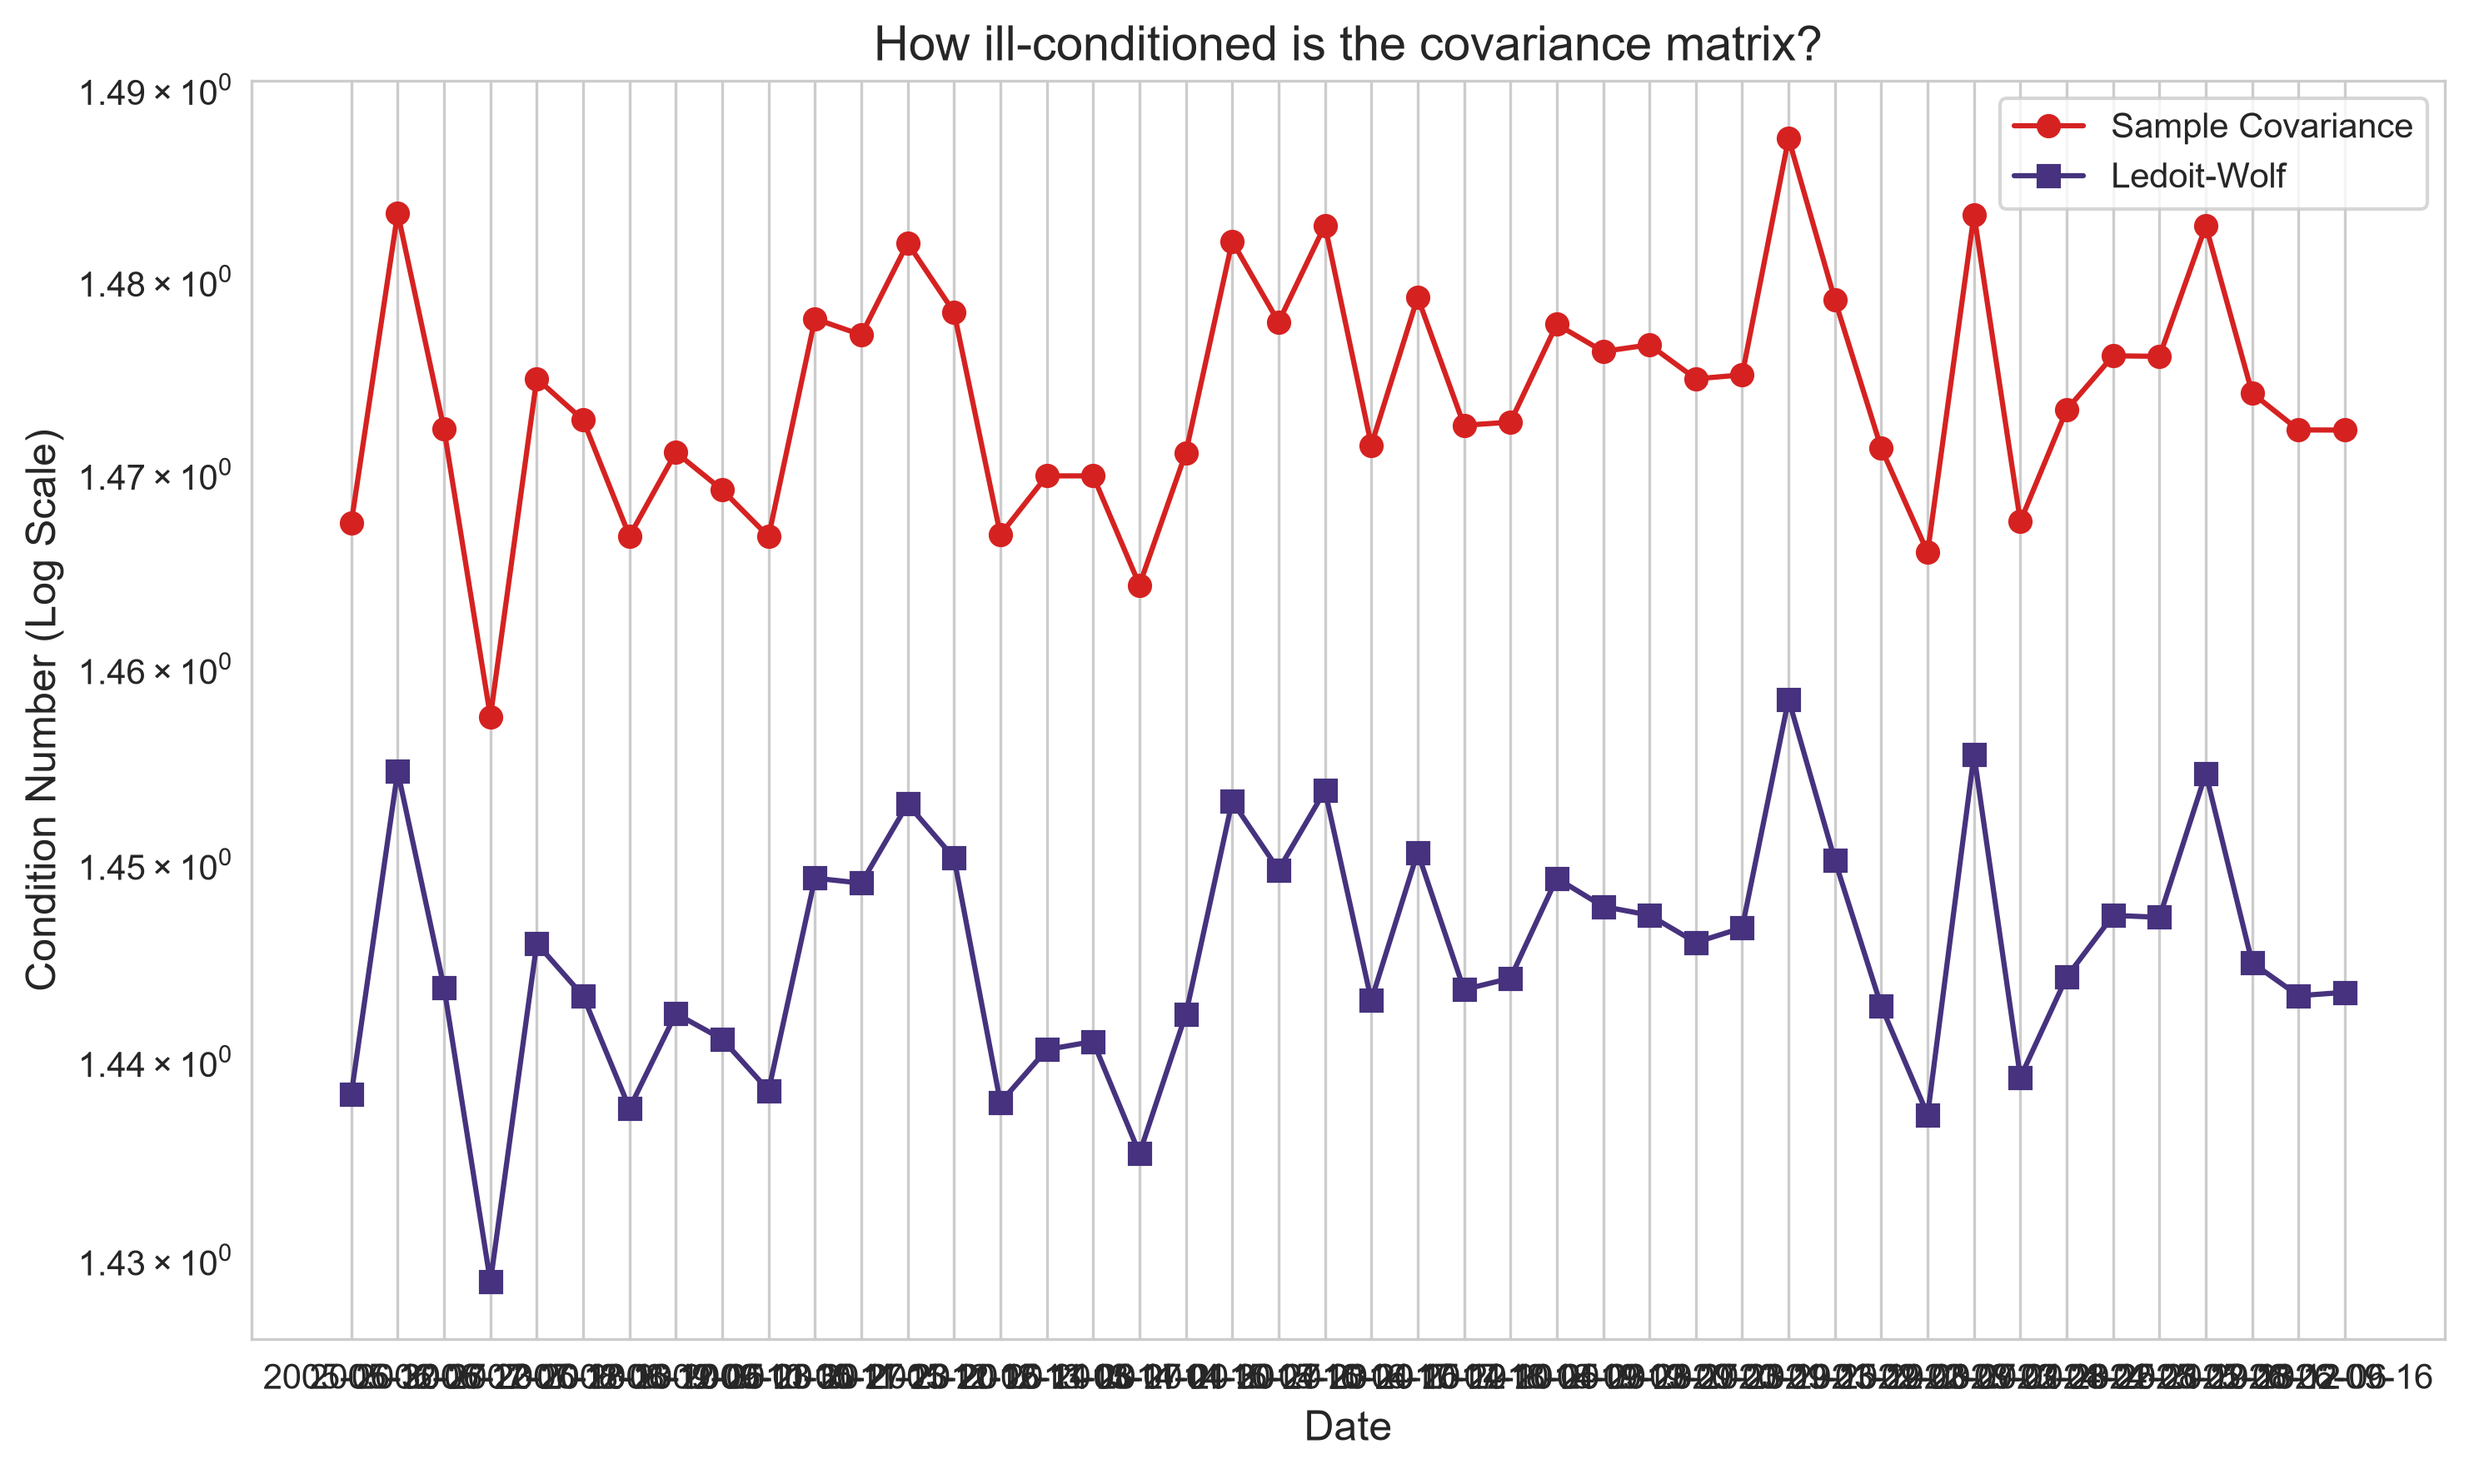
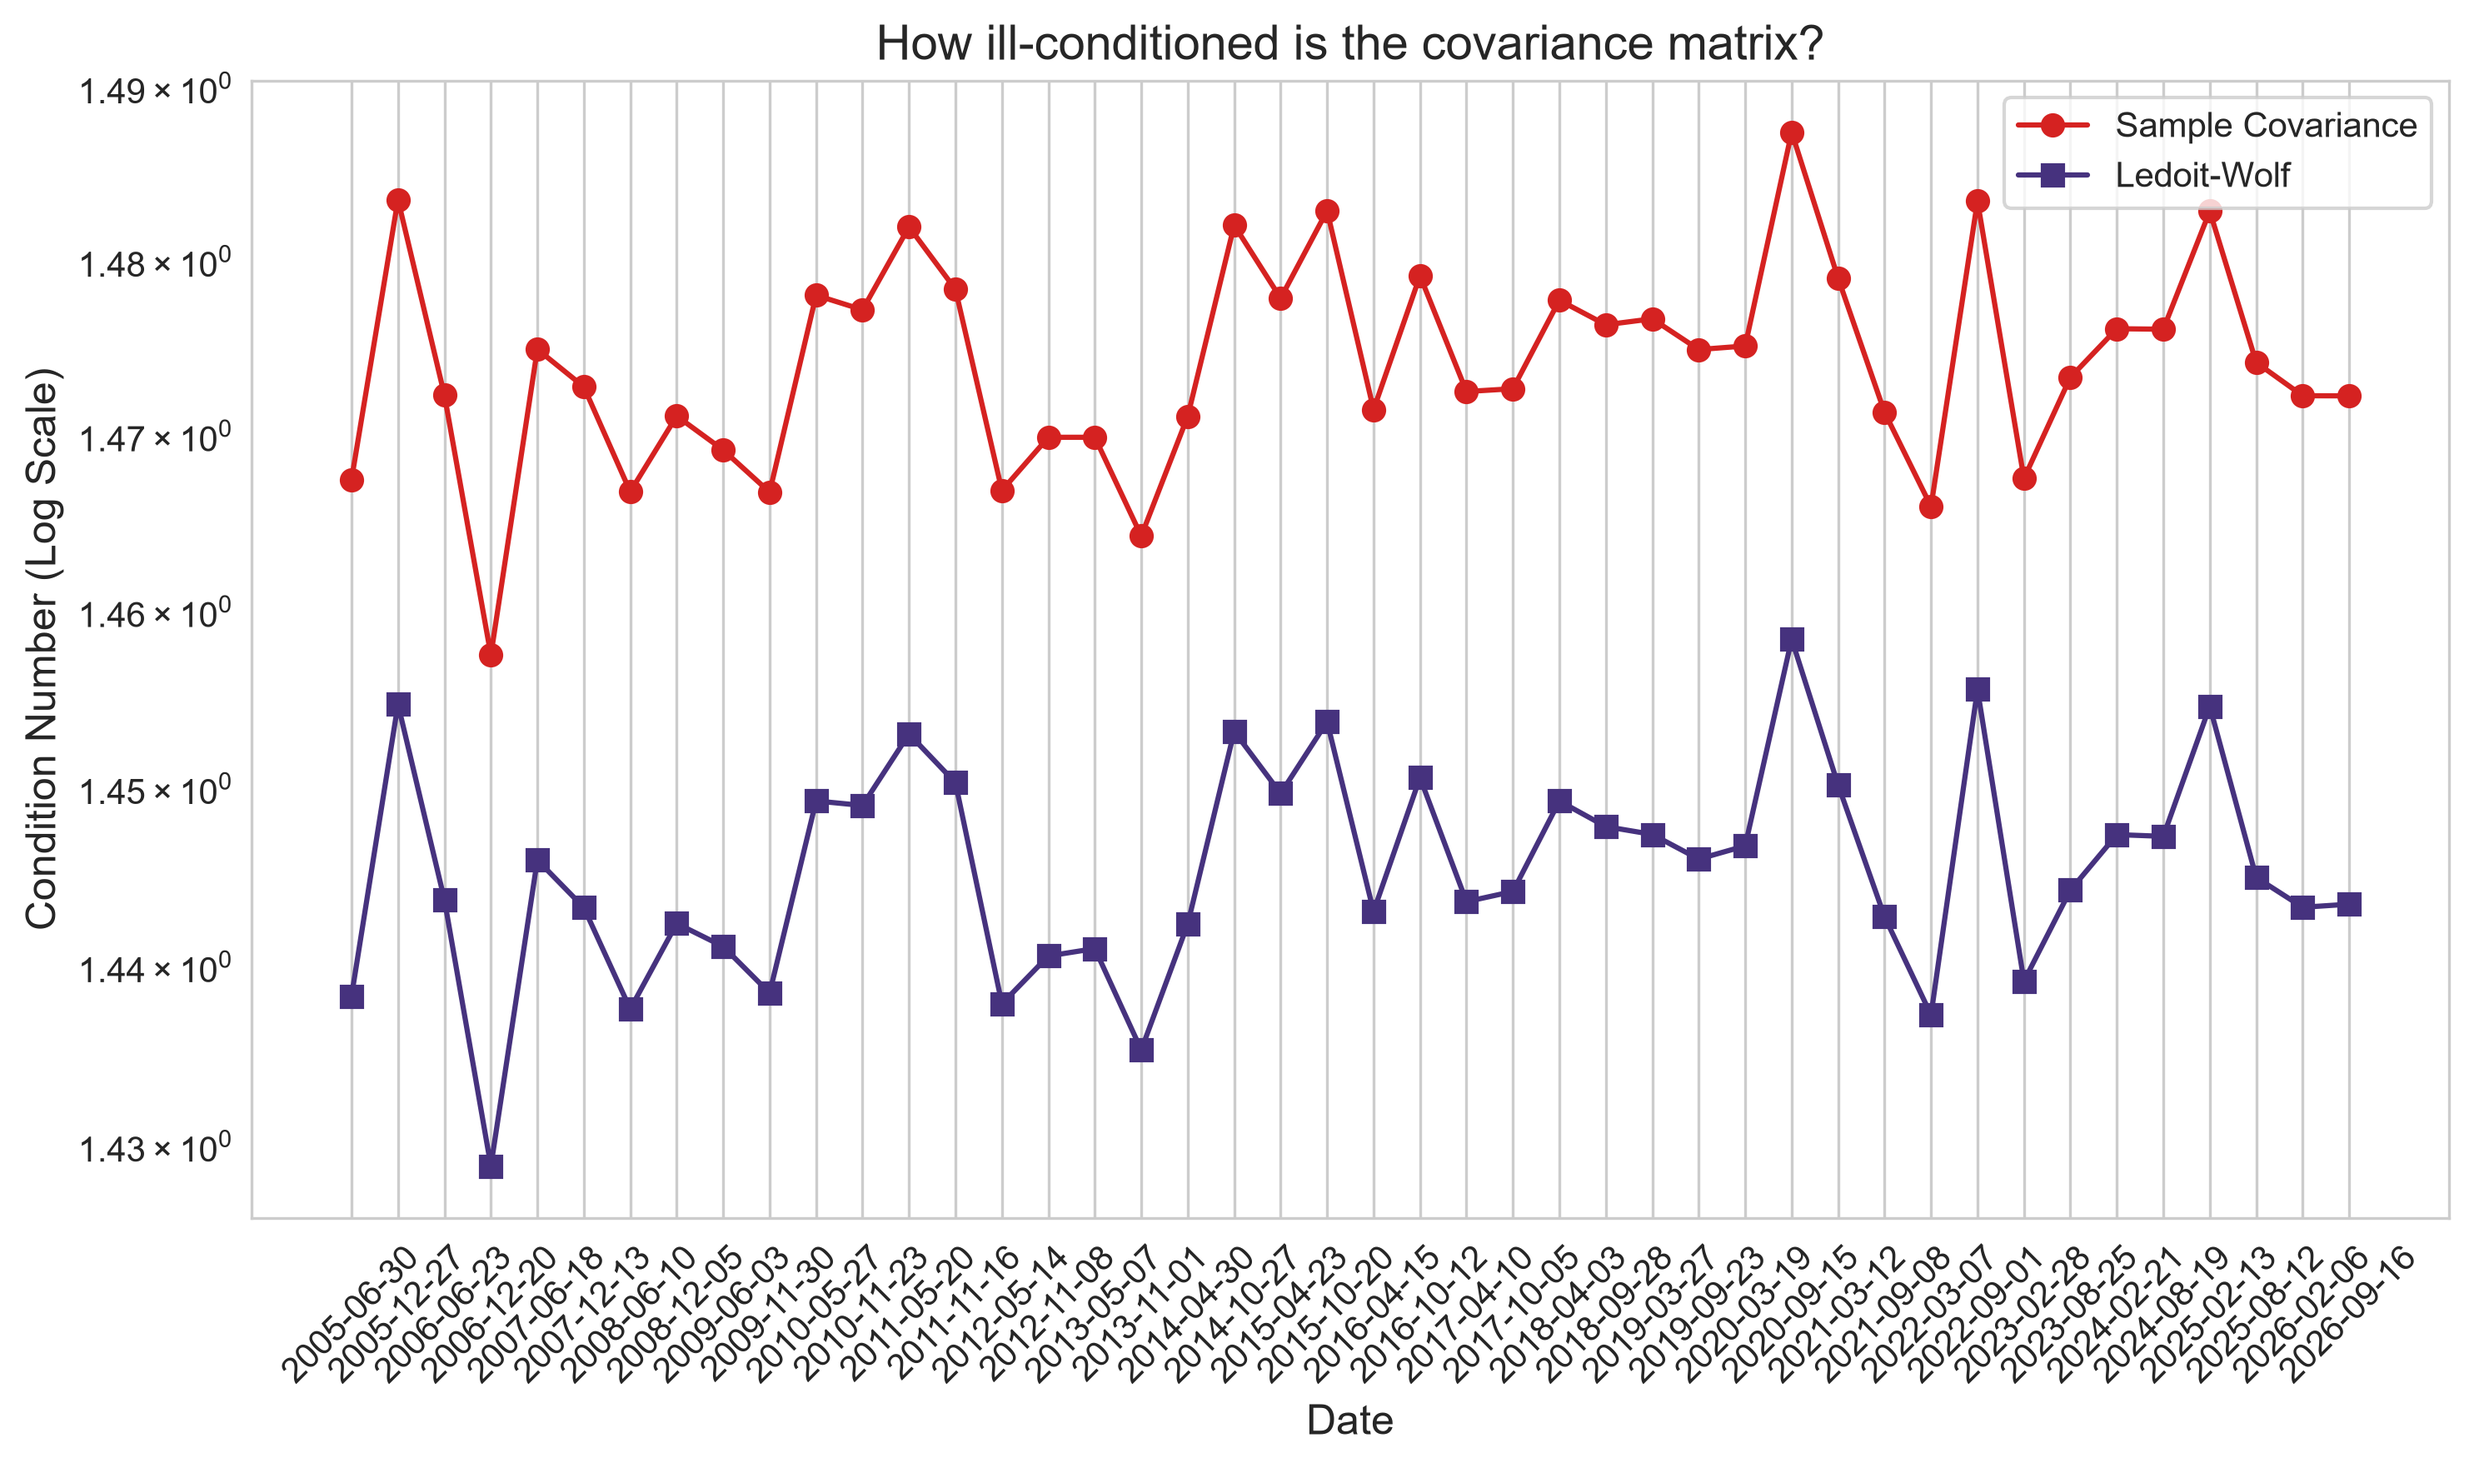
fix: rotate x-axis labels on condition number plot to prevent overlap

diff --git a/src/visualisation/plots.py b/src/visualisation/plots.py
@@ -472,6 +472,7 @@ class Plots:
         plt.title("How ill-conditioned is the covariance matrix?")
         plt.xlabel("Date")
         plt.ylabel("Condition Number (Log Scale)")
+        plt.xticks(rotation=45)
         plt.legend()
         
         self._save_or_show(save_path)

diff --git a/research/results/FINDINGS.md b/research/results/FINDINGS.md
@@ -1,6 +1,6 @@
 # FinMetrica Research Findings: Covariance Regularization & System Benchmark
-*Generated on: 2026-09-16 13:02:51*
-*Universe Name:* Original Demo (Hindsight Biased)
+*Generated on: 2026-09-19 09:09:02*
+*Universe Name:* Demo
 
 ## Executive Summary
 This report evaluates the empirical impact of advanced portfolio structuring (Ledoit-Wolf covariance shrinkage and Hierarchical Risk Parity) on portfolio stability and out-of-sample performance.
@@ -79,8 +79,8 @@ The table below displays all pairwise Jobson-Korkie-Memmel and stationary-bootst
 ## Known Limitations
 
 **Survivorship and Hindsight Bias**
-This run was evaluated from `2005-01-01` using the following `Original Demo (Hindsight Biased)` universe:
-`XLE, PG, JNJ, MSFT, NVDA`
+This run was evaluated from `2005-01-01` using the following `Demo` universe:
+`AAPL, MSFT, GOOG, AMZN, META, JNJ, PFE, UNH, JPM, BAC`
 
 If this list was selected using present-day knowledge of which companies became successful, applying it backward to a start date before that outcome was known represents a form of hindsight/survivorship bias. This likely inflates the *absolute* Sharpe ratios for all methods since they share the same biased universe.
 
